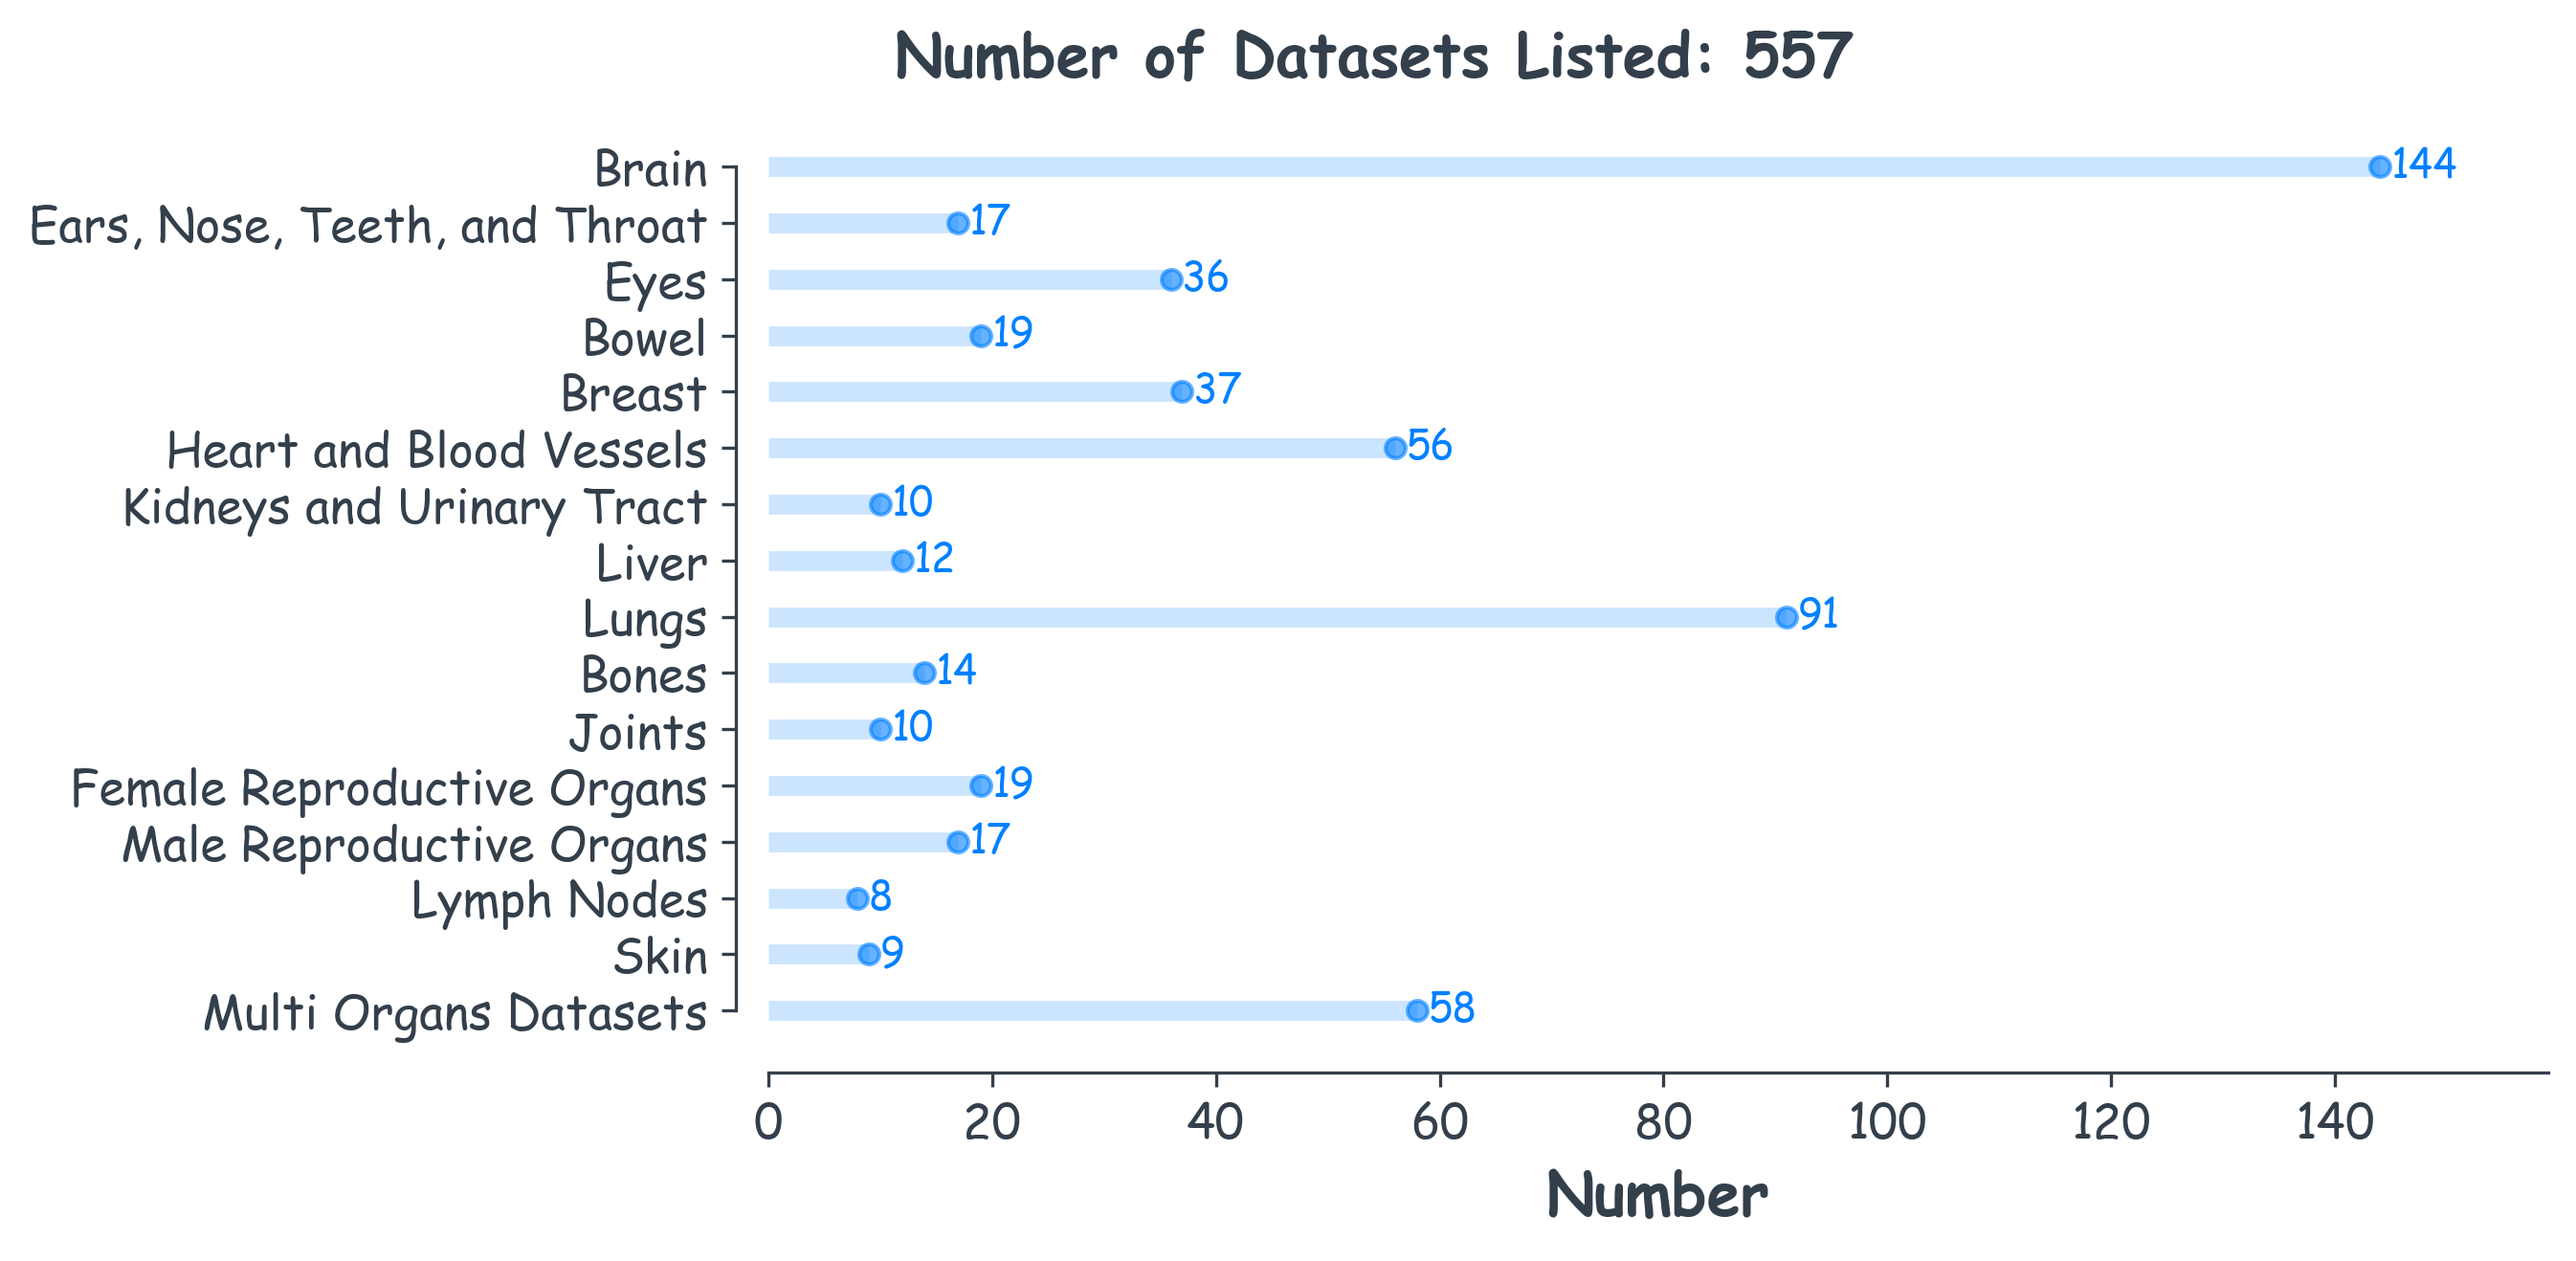
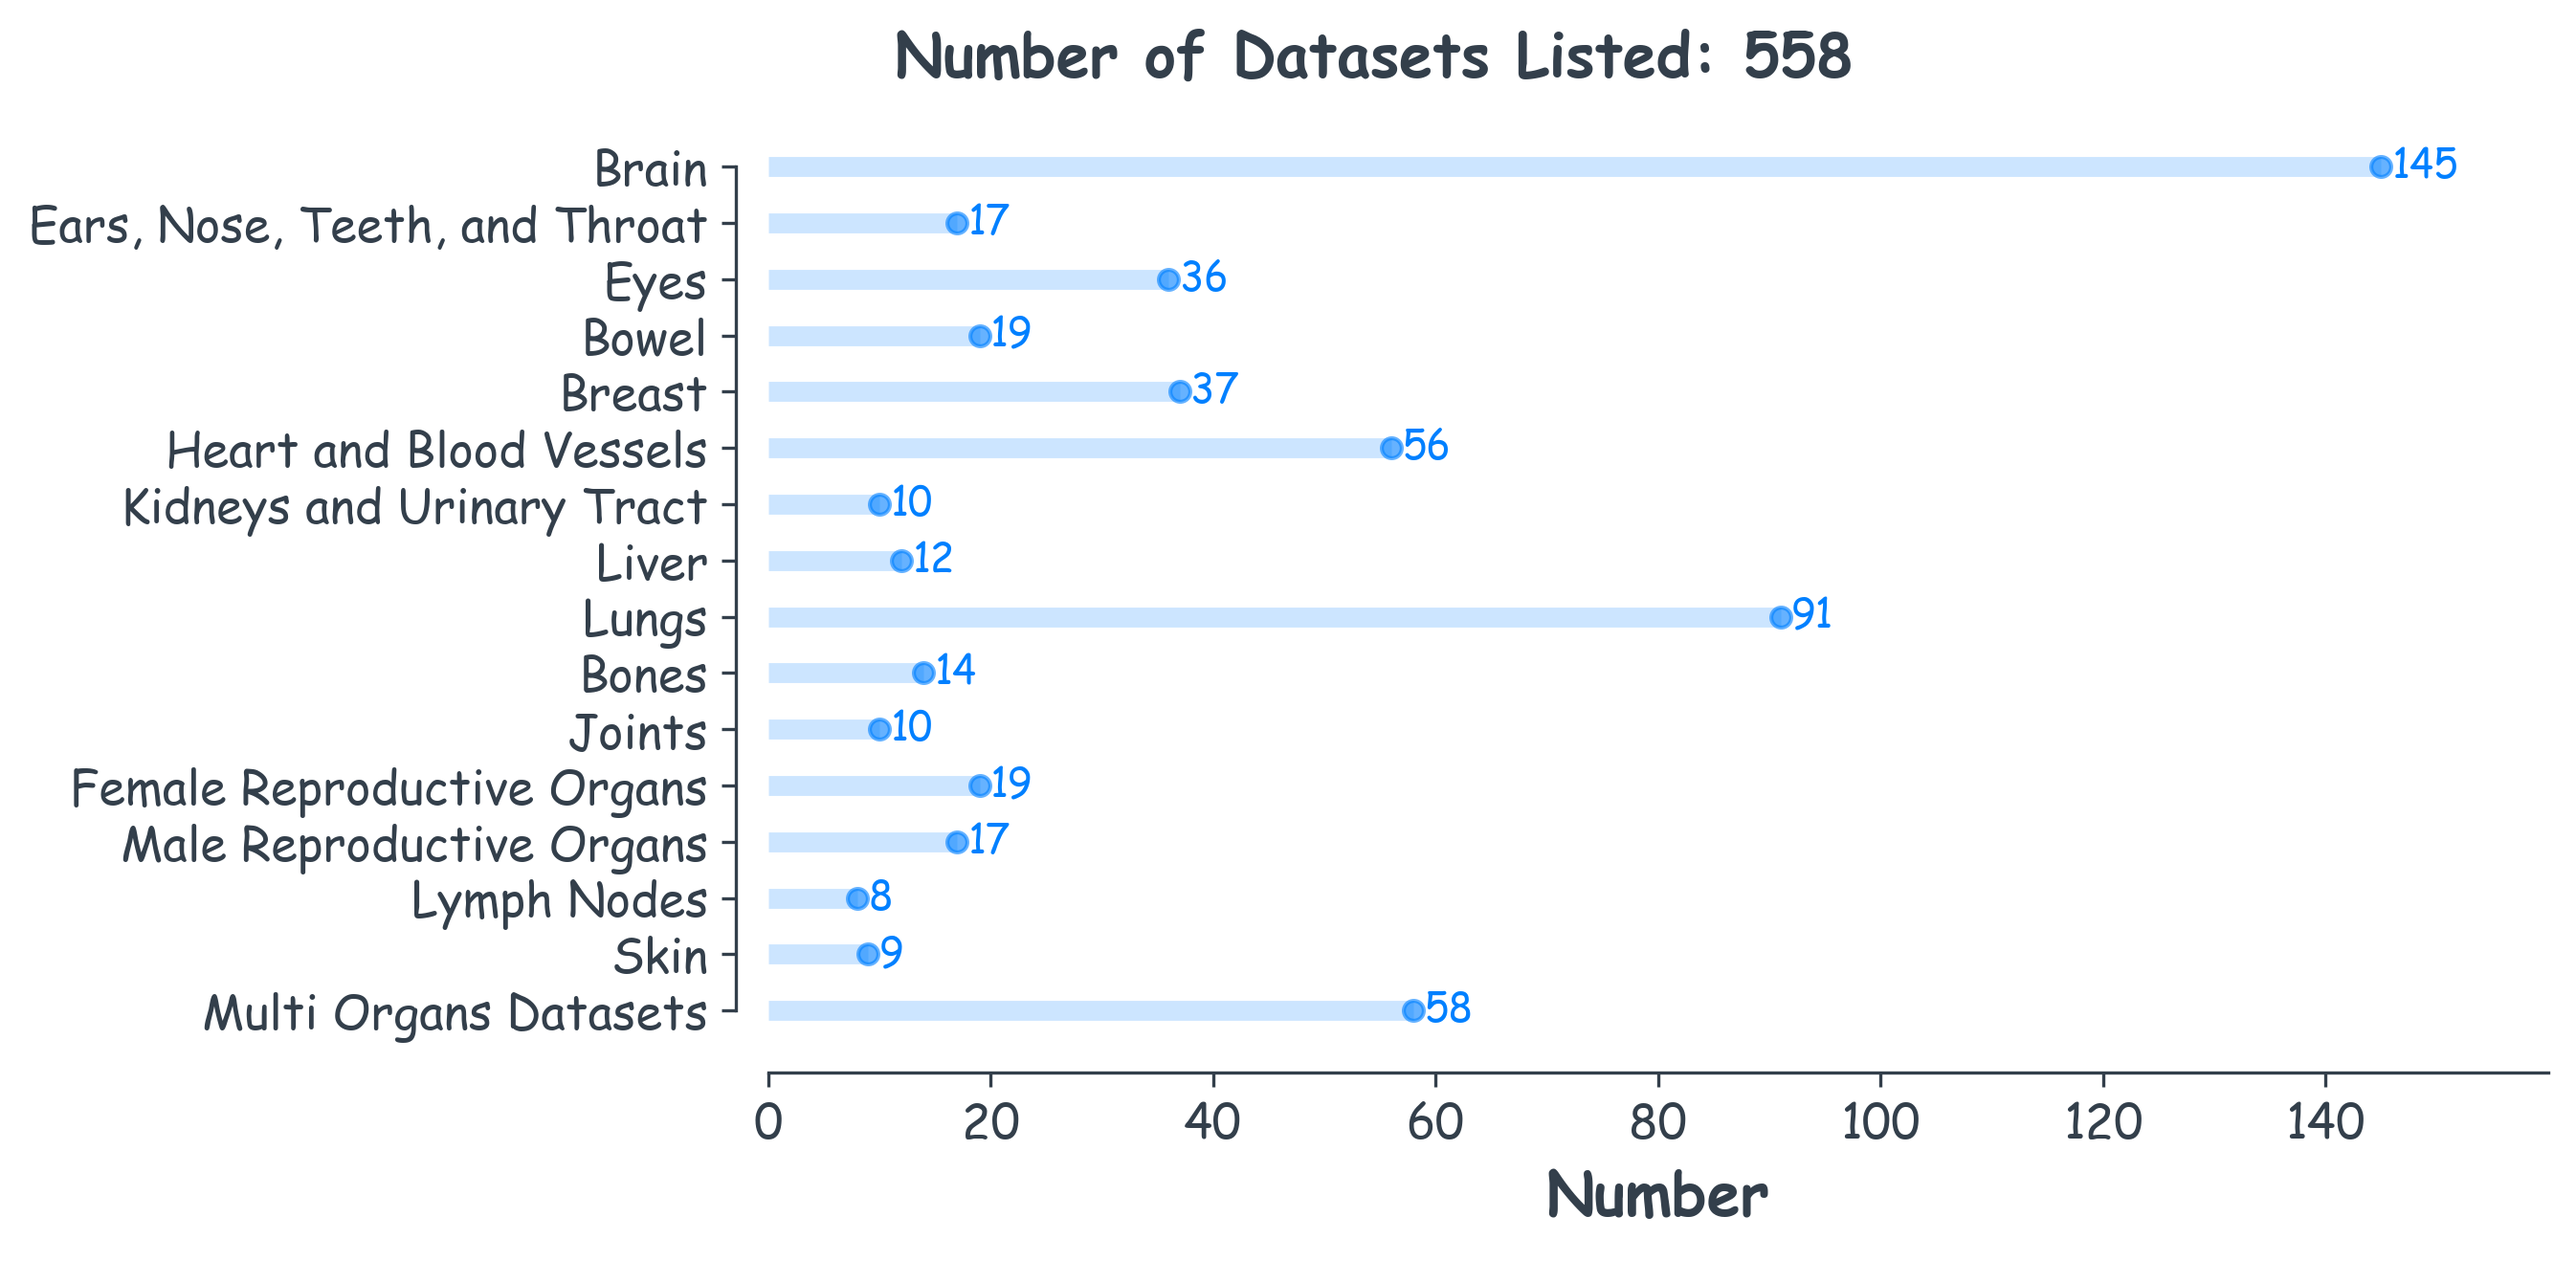
update image number, N = 558

diff --git a/src/datasetNumberImage.py b/src/datasetNumberImage.py
@@ -29,7 +29,7 @@ plt.rcParams['text.color']='#333F4B'
 
 
 data = {
-       'Brain': 144,
+       'Brain': 145,
        'Ears, Nose, Teeth, and Throat': 17, 
        'Eyes': 36,
        'Bowel': 19,
